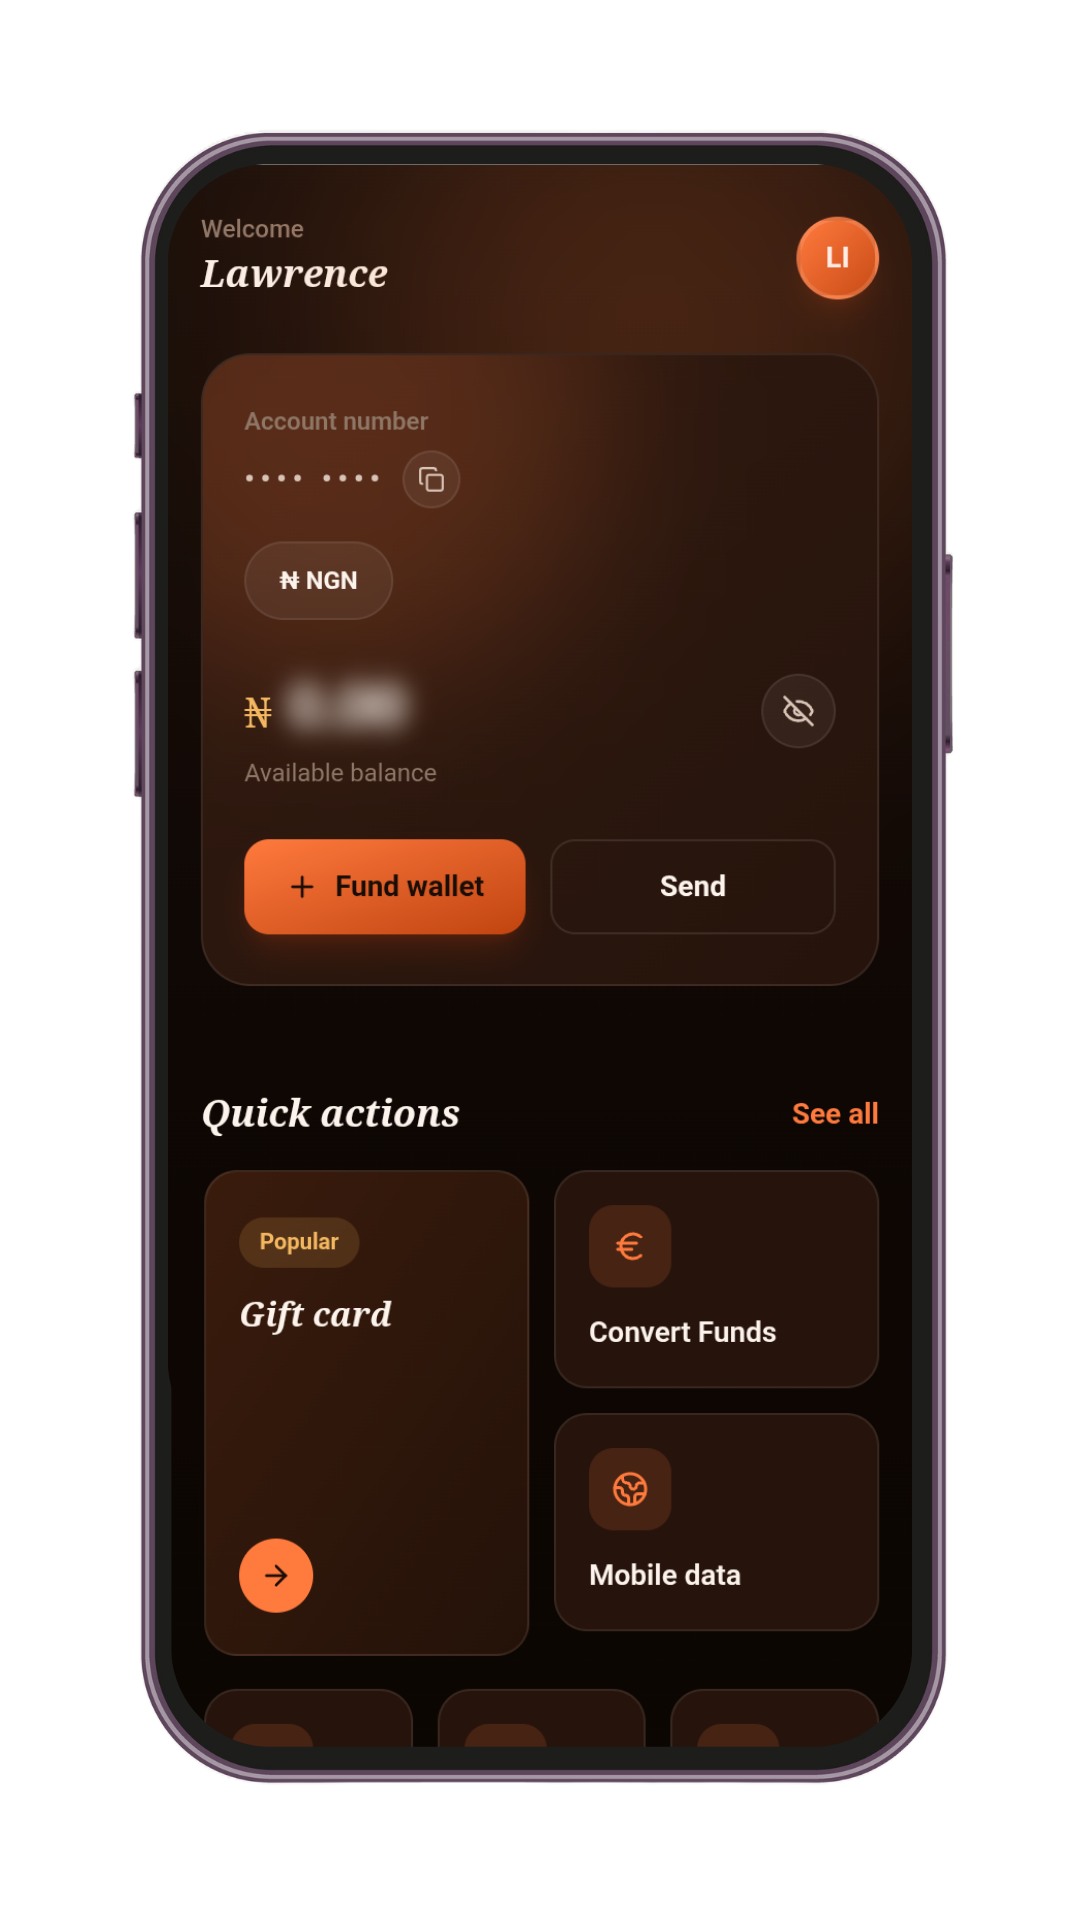
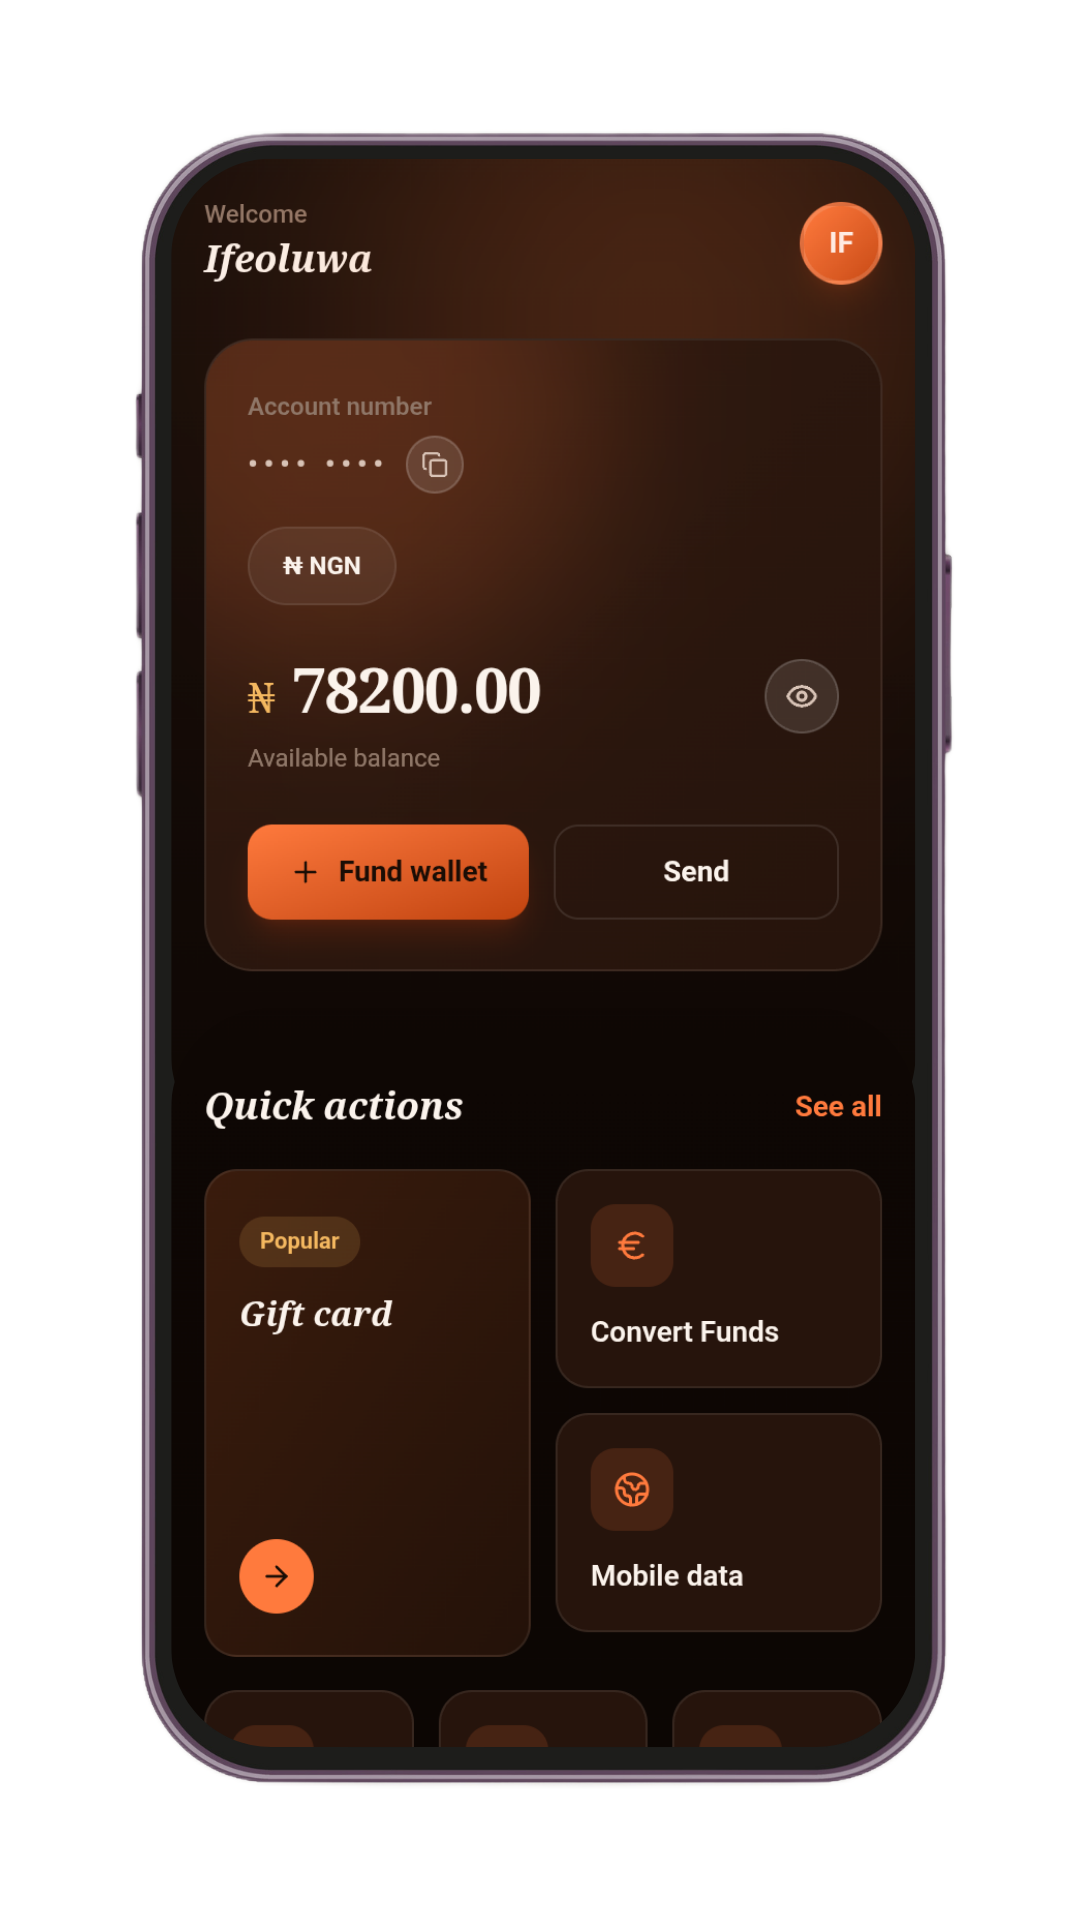
MM

diff --git a/Frontend/components/PersonalComponent/HeroMirror.tsx b/Frontend/components/PersonalComponent/HeroMirror.tsx
@@ -20,10 +20,11 @@ export default function FancyHeading() {
     <div className="relative group">
       <Animate type="fade-right" delay={300}>
         <h1 
-          className="text-balance font-[family-name:var(--font-serif)] text-white text-[length:clamp(2.7rem,5.6vw,4.5rem)] font-medium leading-[1.02] tracking-[-0.025em]"
+          className="text-balance text-white text-[length:clamp(2.2rem,5.6vw,4.5rem)] font-medium leading-[1.02] tracking-[-0.025em]"
+          style={{ fontFamily: "'Playfair Display', serif" }}
           // className="text-2xl mt-0.5 md:text-3xl lg:text-5xl leading-tight lg:leading-18 text-white font-stretch-85% font-semibold"
         >
-            <span className="text-orange-500">One</span> app. Every transaction you need.
+            <span className="text-orange-500 font-[family-name:var(--font-serif)]">One</span> app. Every transaction you need.
         </h1>
       </Animate>
       <div className="lens hidden group-hover:block group-active:block"></div>

diff --git a/Frontend/app/globals.css b/Frontend/app/globals.css
@@ -1,5 +1,15 @@
+/* @import url('https://fonts.googleapis.com/css2?family=Playfair+Display:wght@400;500;600;700;800;900&family=Inter:wght@400;500;600;700&display=swap'); */
 @import "tailwindcss";
 @import "aos/dist/aos.css";
+
+
+
+
+/* @theme {
+  --font-display: "Playfair Display", serif;
+  --font-sans: "Inter", sans-serif;
+} */
+
 /* @config "../../tailwind.config.js"; */
 
 

diff --git a/Frontend/tailwind.config.js b/Frontend/tailwind.config.js
@@ -7,6 +7,10 @@ module.exports = {
   ],
   theme: {
     extend: {
+      // fontFamily: {
+      //   display: ['"Playfair Display"', 'serif'],
+      //   sans: ['"Inter"', 'sans-serif'],
+      // },
       animation: {
         'fade-in': 'fadeIn 0.7s ease-in',
       },
